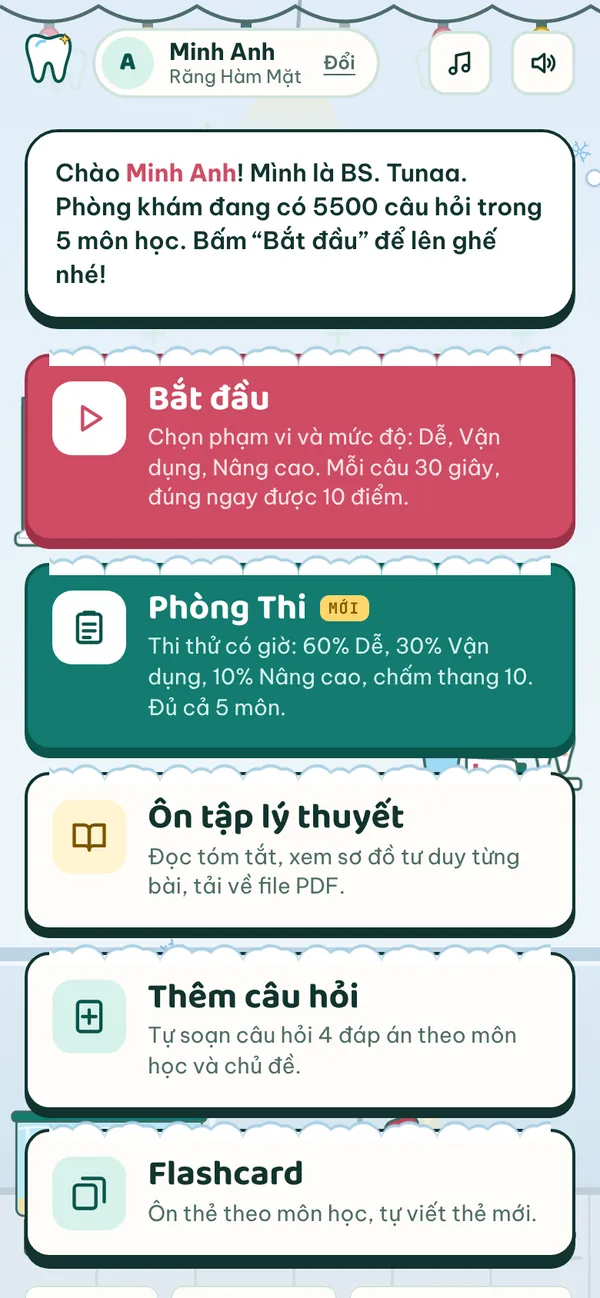
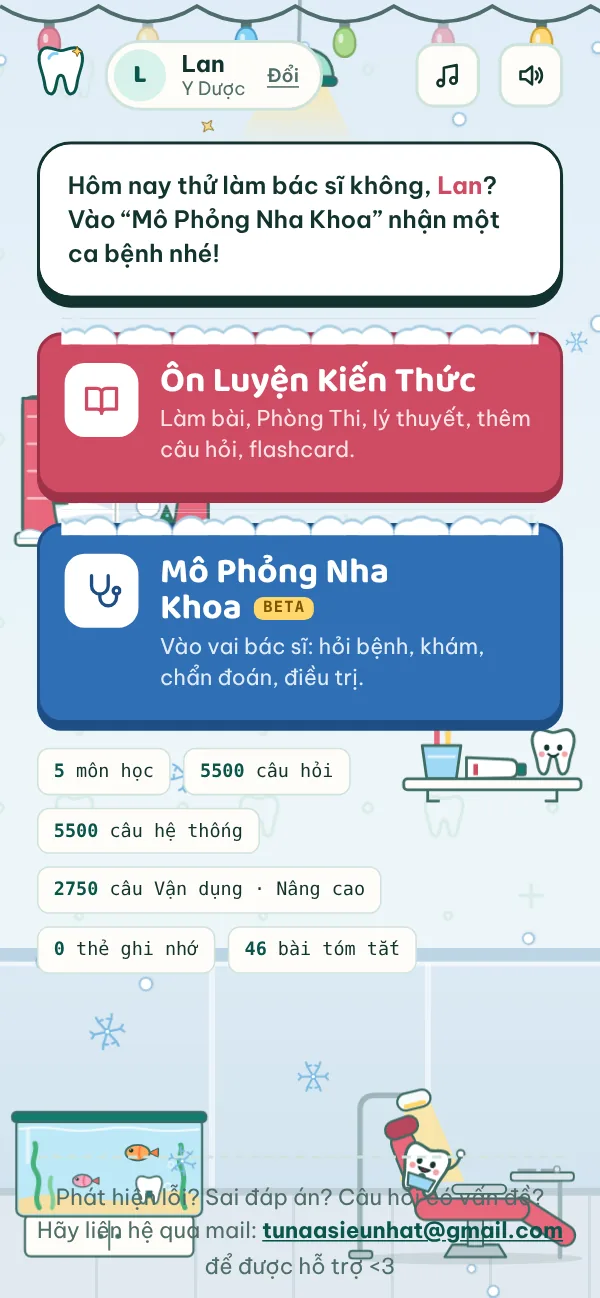
Trang giới thiệu: Version 2.5 (Mô Phỏng Nha Khoa, menu chính 2 mục)
Claude-Session: https://claude.ai/code/session_01WDxktGbJUgqZZoi7muFA3u

diff --git a/index.html b/index.html
@@ -237,6 +237,7 @@ section.blk{padding:96px 0}
   .subj td:first-child small{font-size:.78rem}
   .ctas .btn{width:100%;justify-content:center}
 }
+.tag-beta{display:inline-block;vertical-align:.3em;margin-left:8px;font-size:.42em;font-weight:800;letter-spacing:.08em;text-transform:uppercase;background:#FFD66B;color:#7A5600;border-radius:7px;padding:3px 8px}
 </style>
 </head>
 <body>
@@ -278,18 +279,18 @@ section.blk{padding:96px 0}
       <div class="ctas">
         <a class="btn btn-dl" href="https://github.com/tunaasieunhat/on-luyen-nha-khoa/releases/latest/download/OnLuyenNhaKhoa.apk">
           <svg viewBox="0 0 24 24" fill="none" stroke="currentColor" stroke-width="2.2" stroke-linecap="round" stroke-linejoin="round" aria-hidden="true"><path d="M12 3v12M7 10l5 5 5-5M5 20h14"/></svg>
-          <span>Tải app Android<small>File APK, 14 MB</small></span>
+          <span>Tải app Android<small>File APK, 25 MB</small></span>
         </a>
         <a class="btn btn-web" href="on-luyen-nha-khoa/">
           <svg viewBox="0 0 24 24" fill="none" stroke="currentColor" stroke-width="2" stroke-linecap="round" stroke-linejoin="round" aria-hidden="true"><circle cx="12" cy="12" r="9"/><path d="M3 12h18M12 3c2.6 2.6 3.8 5.6 3.8 9s-1.2 6.4-3.8 9c-2.6-2.6-3.8-5.6-3.8-9S9.4 5.6 12 3z"/></svg>
           <span>Mở bản web<small>iPhone, máy tính</small></span>
         </a>
       </div>
-      <p class="ver">Bản <b>2.4</b>, ra ngày 22/10/2026. Miễn phí, không quảng cáo.</p>
+      <p class="ver">Bản <b>2.5</b>, ra ngày 22/10/2026. Miễn phí, không quảng cáo.</p>
     </div>
     <div class="shelf">
       <div class="phone l"><img src="img/quiz-answer.webp" alt="Màn hình làm câu hỏi: chọn sai được báo đáp án đúng kèm giải thích" width="600" height="1298"></div>
-      <div class="phone mid"><img src="img/lobby.webp" alt="Sảnh của app: Bắt đầu, Phòng Thi, Ôn tập lý thuyết, Thêm câu hỏi, Flashcard" width="600" height="1298"></div>
+      <div class="phone mid"><img src="img/lobby.webp" alt="Sảnh của app: Ôn Luyện Kiến Thức và Mô Phỏng Nha Khoa" width="600" height="1298"></div>
       <div class="phone r"><img src="img/exam.webp" alt="Phòng Thi: đồng hồ đếm ngược, câu 5 trên 60" width="600" height="1298"></div>
     </div>
     <div class="counter" aria-hidden="true"></div>
@@ -340,6 +341,18 @@ section.blk{padding:96px 0}
           </ul>
         </div>
       </article>
+      <article class="feat flip" data-rv>
+        <div class="feat-shot phone"><img src="img/sim.webp" alt="Mô Phỏng Nha Khoa: bác sĩ hỏi bệnh nhân sưng má về dị ứng thuốc, app chấm điểm và giải thích" width="600" height="1298" loading="lazy"></div>
+        <div class="feat-txt">
+          <h3>Mô Phỏng Nha Khoa<span class="tag-beta">Beta</span></h3>
+          <p class="one">Vào vai bác sĩ: hỏi bệnh, khám, chụp phim, chẩn đoán và điều trị.</p>
+          <ul class="facts">
+            <li style="--i:0">6 ca bệnh, hội thoại như ở phòng khám thật</li>
+            <li style="--i:1">Chọn sai là bệnh nhân gặp hậu quả</li>
+            <li style="--i:2">Chấm điểm, xem lại từng bước kèm giải thích</li>
+          </ul>
+        </div>
+      </article>
 
       <div class="tray" data-rv>
         <h3>Thêm chút tiện</h3>
@@ -386,14 +399,22 @@ section.blk{padding:96px 0}
         <div class="sheet">
           <ol class="log" reversed>
             <li style="--i:0">
-              <div class="when"><b>2.4</b><time datetime="2026-10-22">22/10/2026</time><span class="new">Mới nhất</span></div>
+              <div class="when"><b>2.5</b><time datetime="2026-10-22">22/10/2026</time><span class="new">Mới nhất</span></div>
+              <ul>
+                <li>Mô Phỏng Nha Khoa (beta): 6 ca bệnh</li>
+                <li>Hỏi bệnh, khám, chẩn đoán, điều trị như thật</li>
+                <li>Menu chính gọn còn 2 mục</li>
+              </ul>
+            </li>
+            <li style="--i:1">
+              <div class="when"><b>2.4</b><time datetime="2026-10-22">22/10/2026</time></div>
               <ul>
                 <li>Anh văn chuyên ngành 2 viết lại, dễ hiểu hơn</li>
                 <li>Có phiên âm, ví dụ, từ dễ nhầm, đọc hiểu</li>
                 <li>Giáo trình trọn bộ 15 Unit (1 file PDF)</li>
               </ul>
             </li>
-            <li style="--i:1">
+            <li style="--i:2">
               <div class="when"><b>2.3</b><time datetime="2026-10-21">21/10/2026</time></div>
               <ul>
                 <li>Giáo trình trọn bộ Mắt, Nhi khoa (1 file PDF)</li>
@@ -401,7 +422,7 @@ section.blk{padding:96px 0}
                 <li>Vẫn đọc, tải từng bài như cũ</li>
               </ul>
             </li>
-            <li style="--i:2">
+            <li style="--i:3">
               <div class="when"><b>2.1.2</b><time datetime="2026-10-21">21/10/2026</time></div>
               <ul>
                 <li>Giáo trình Nhi khoa viết lại, dễ hiểu hơn</li>
@@ -409,7 +430,7 @@ section.blk{padding:96px 0}
                 <li>Liên hệ Răng Hàm Mặt trong từng bài</li>
               </ul>
             </li>
-            <li style="--i:3">
+            <li style="--i:4">
               <div class="when"><b>2.1.1</b><time datetime="2026-10-21">21/10/2026</time></div>
               <ul>
                 <li>Giáo trình Mắt viết lại, dễ hiểu hơn</li>
@@ -417,7 +438,7 @@ section.blk{padding:96px 0}
                 <li>Tiêu đề phụ gọn hơn</li>
               </ul>
             </li>
-            <li style="--i:4">
+            <li style="--i:5">
               <div class="when"><b>2.0.1</b><time datetime="2026-10-21">21/10/2026</time></div>
               <ul>
                 <li>Vật liệu nha khoa, Anh văn đủ 3 mức độ</li>
@@ -425,7 +446,7 @@ section.blk{padding:96px 0}
                 <li>Nhạc nền chill mùa đông</li>
               </ul>
             </li>
-            <li style="--i:5">
+            <li style="--i:6">
               <div class="when"><b>2.0</b><time datetime="2026-10-20">20/10/2026</time></div>
               <ul>
                 <li>Ra mắt Phòng Thi</li>
@@ -433,19 +454,19 @@ section.blk{padding:96px 0}
                 <li>Giao diện mùa đông</li>
               </ul>
             </li>
-            <li style="--i:6">
+            <li style="--i:7">
               <div class="when"><b>1.2</b><time datetime="2026-10-20">20/10/2026</time></div>
               <ul><li>Thêm môn Tai - Mũi - Họng (6 bài)</li></ul>
             </li>
-            <li style="--i:7">
+            <li style="--i:8">
               <div class="when"><b>1.1</b><time datetime="2026-10-20">20/10/2026</time></div>
               <ul><li>Thêm môn Mắt (5 bài)</li></ul>
             </li>
-            <li style="--i:8">
+            <li style="--i:9">
               <div class="when"><b>1.0</b><time datetime="2026-10-20">20/10/2026</time></div>
               <ul><li>Tên mới Ôn Luyện Nha Khoa, tự báo khi có bản mới</li></ul>
             </li>
-            <li style="--i:9">
+            <li style="--i:10">
               <div class="when"><b>Bản đầu</b><time datetime="2026-10-19">19/10/2026</time></div>
               <ul><li>App Android chạy offline, 3 môn đầu tiên</li></ul>
             </li>
@@ -472,7 +493,7 @@ section.blk{padding:96px 0}
           </div>
           <a class="btn btn-dl" href="https://github.com/tunaasieunhat/on-luyen-nha-khoa/releases/latest/download/OnLuyenNhaKhoa.apk">
             <svg viewBox="0 0 24 24" fill="none" stroke="currentColor" stroke-width="2.2" stroke-linecap="round" stroke-linejoin="round" aria-hidden="true"><path d="M12 3v12M7 10l5 5 5-5M5 20h14"/></svg>
-            <span>Tải OnLuyenNhaKhoa.apk<small>Version 2.4</small></span>
+            <span>Tải OnLuyenNhaKhoa.apk<small>Version 2.5</small></span>
           </a>
           <ol class="steps">
             <li>Tải file APK</li>
